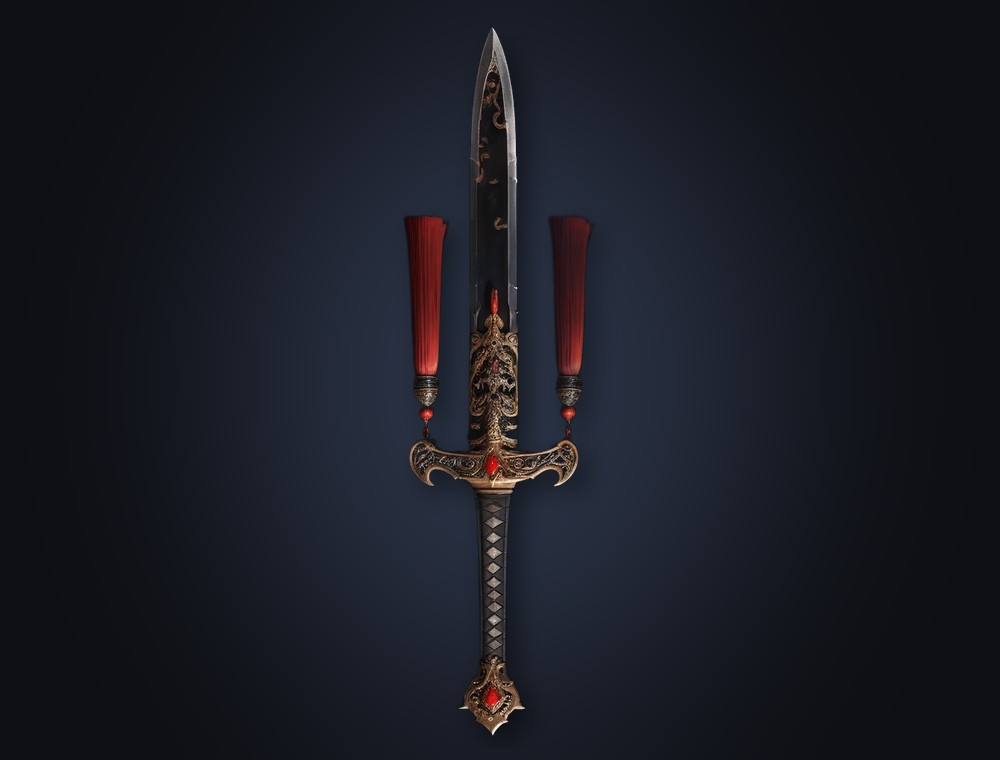
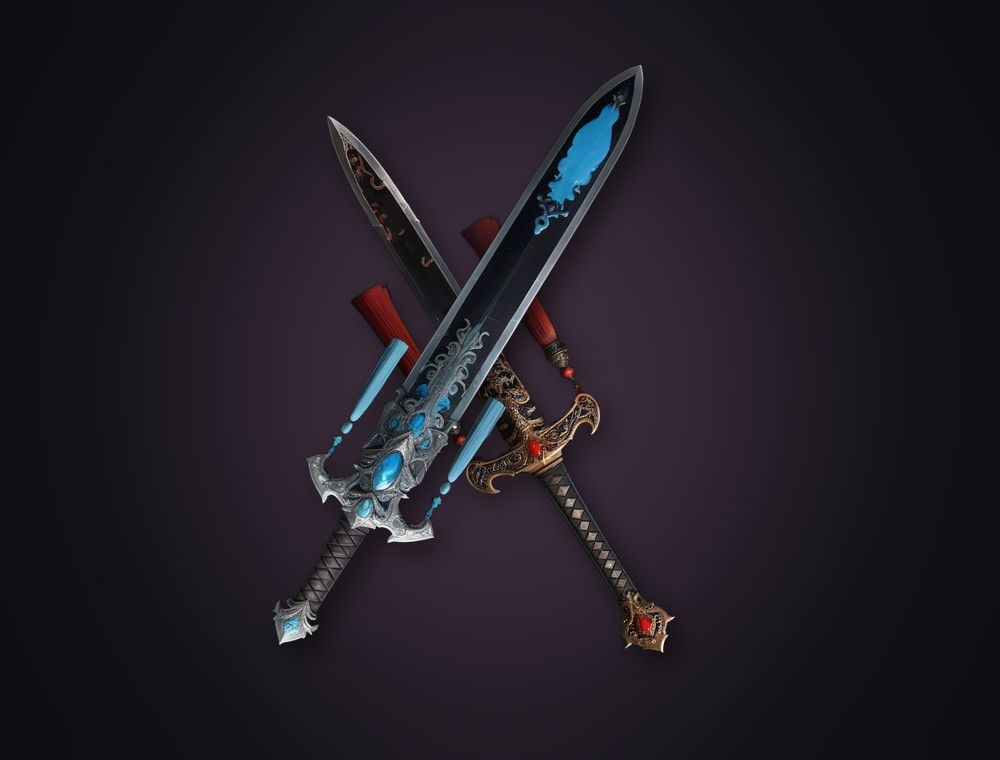
New Onimaru (oni) and Claiomh Solais (white light) swords; crossed Ganjiang-Moye token
Claude-Session: https://claude.ai/code/session_01XrBwXBqX3owjaJbW5W7iUD

Changed region(s): [[0.248, 0.0303, 0.682, 0.9684]]

diff --git a/MagicSwordsman/MagicSwordsmanCode/Visuals/SwordAcquiredPopup.cs b/MagicSwordsman/MagicSwordsmanCode/Visuals/SwordAcquiredPopup.cs
@@ -207,12 +207,11 @@ public static class SwordAcquiredPopup
     private static string? ArtPath(SwordId sword)
     {
         // Preferred: the sword itself (images/swords/<sword>.png, also used for the floating combat swords).
+        // (간장·막야 come as a pair: their token art shows both swords crossed, so use that instead.)
         var spritePath = $"{MainFile.ResPath}/images/swords/{sword.ToString().ToLowerInvariant()}.png";
-        if (ResourceLoader.Exists(spritePath)) return spritePath;
+        if (sword != SwordId.Ganjiang && ResourceLoader.Exists(spritePath)) return spritePath;
 
-        var id = sword == SwordId.Ganjiang
-            ? "twin_mated_pair"
-            : Regex.Replace(sword.ToString(), "(?<!^)([A-Z])", "_$1").ToLowerInvariant() + "_token";
+        var id = Regex.Replace(sword.ToString(), "(?<!^)([A-Z])", "_$1").ToLowerInvariant() + "_token";
         foreach (var ext in new[] { ".png", ".jpg" })
         {
             var path = $"{MainFile.ResPath}/images/card_portraits/big/{id}{ext}";
